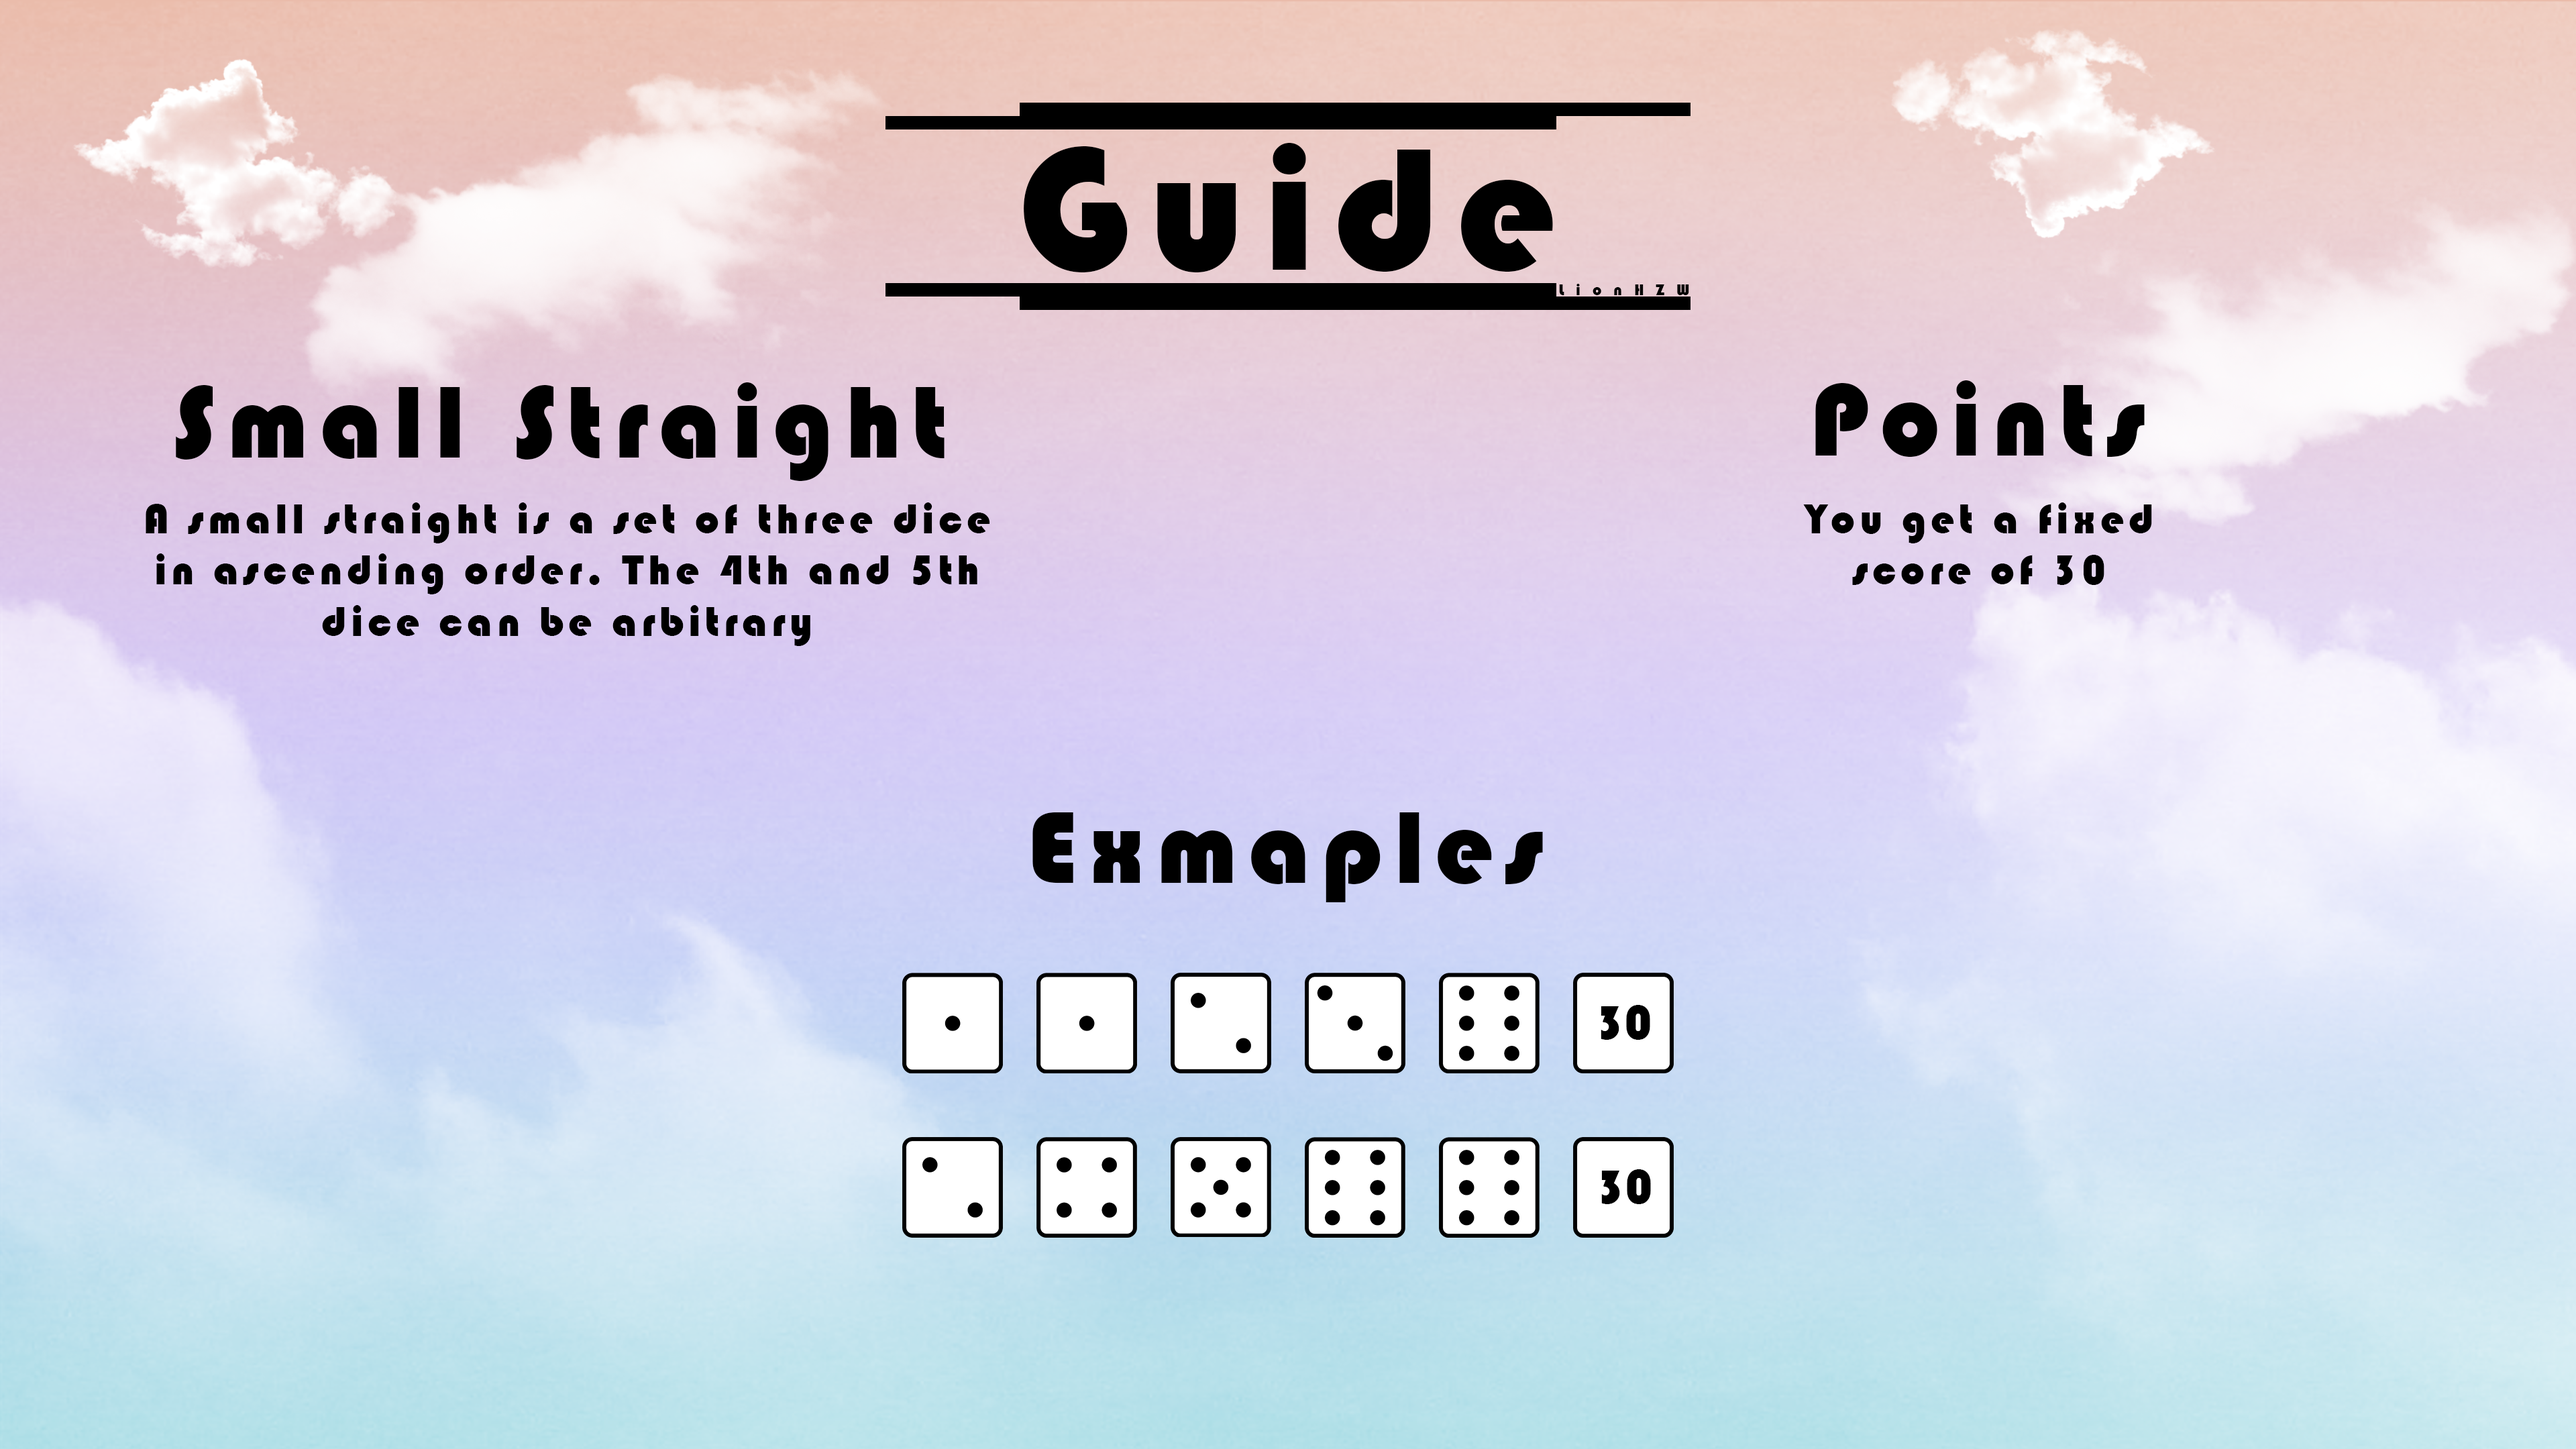
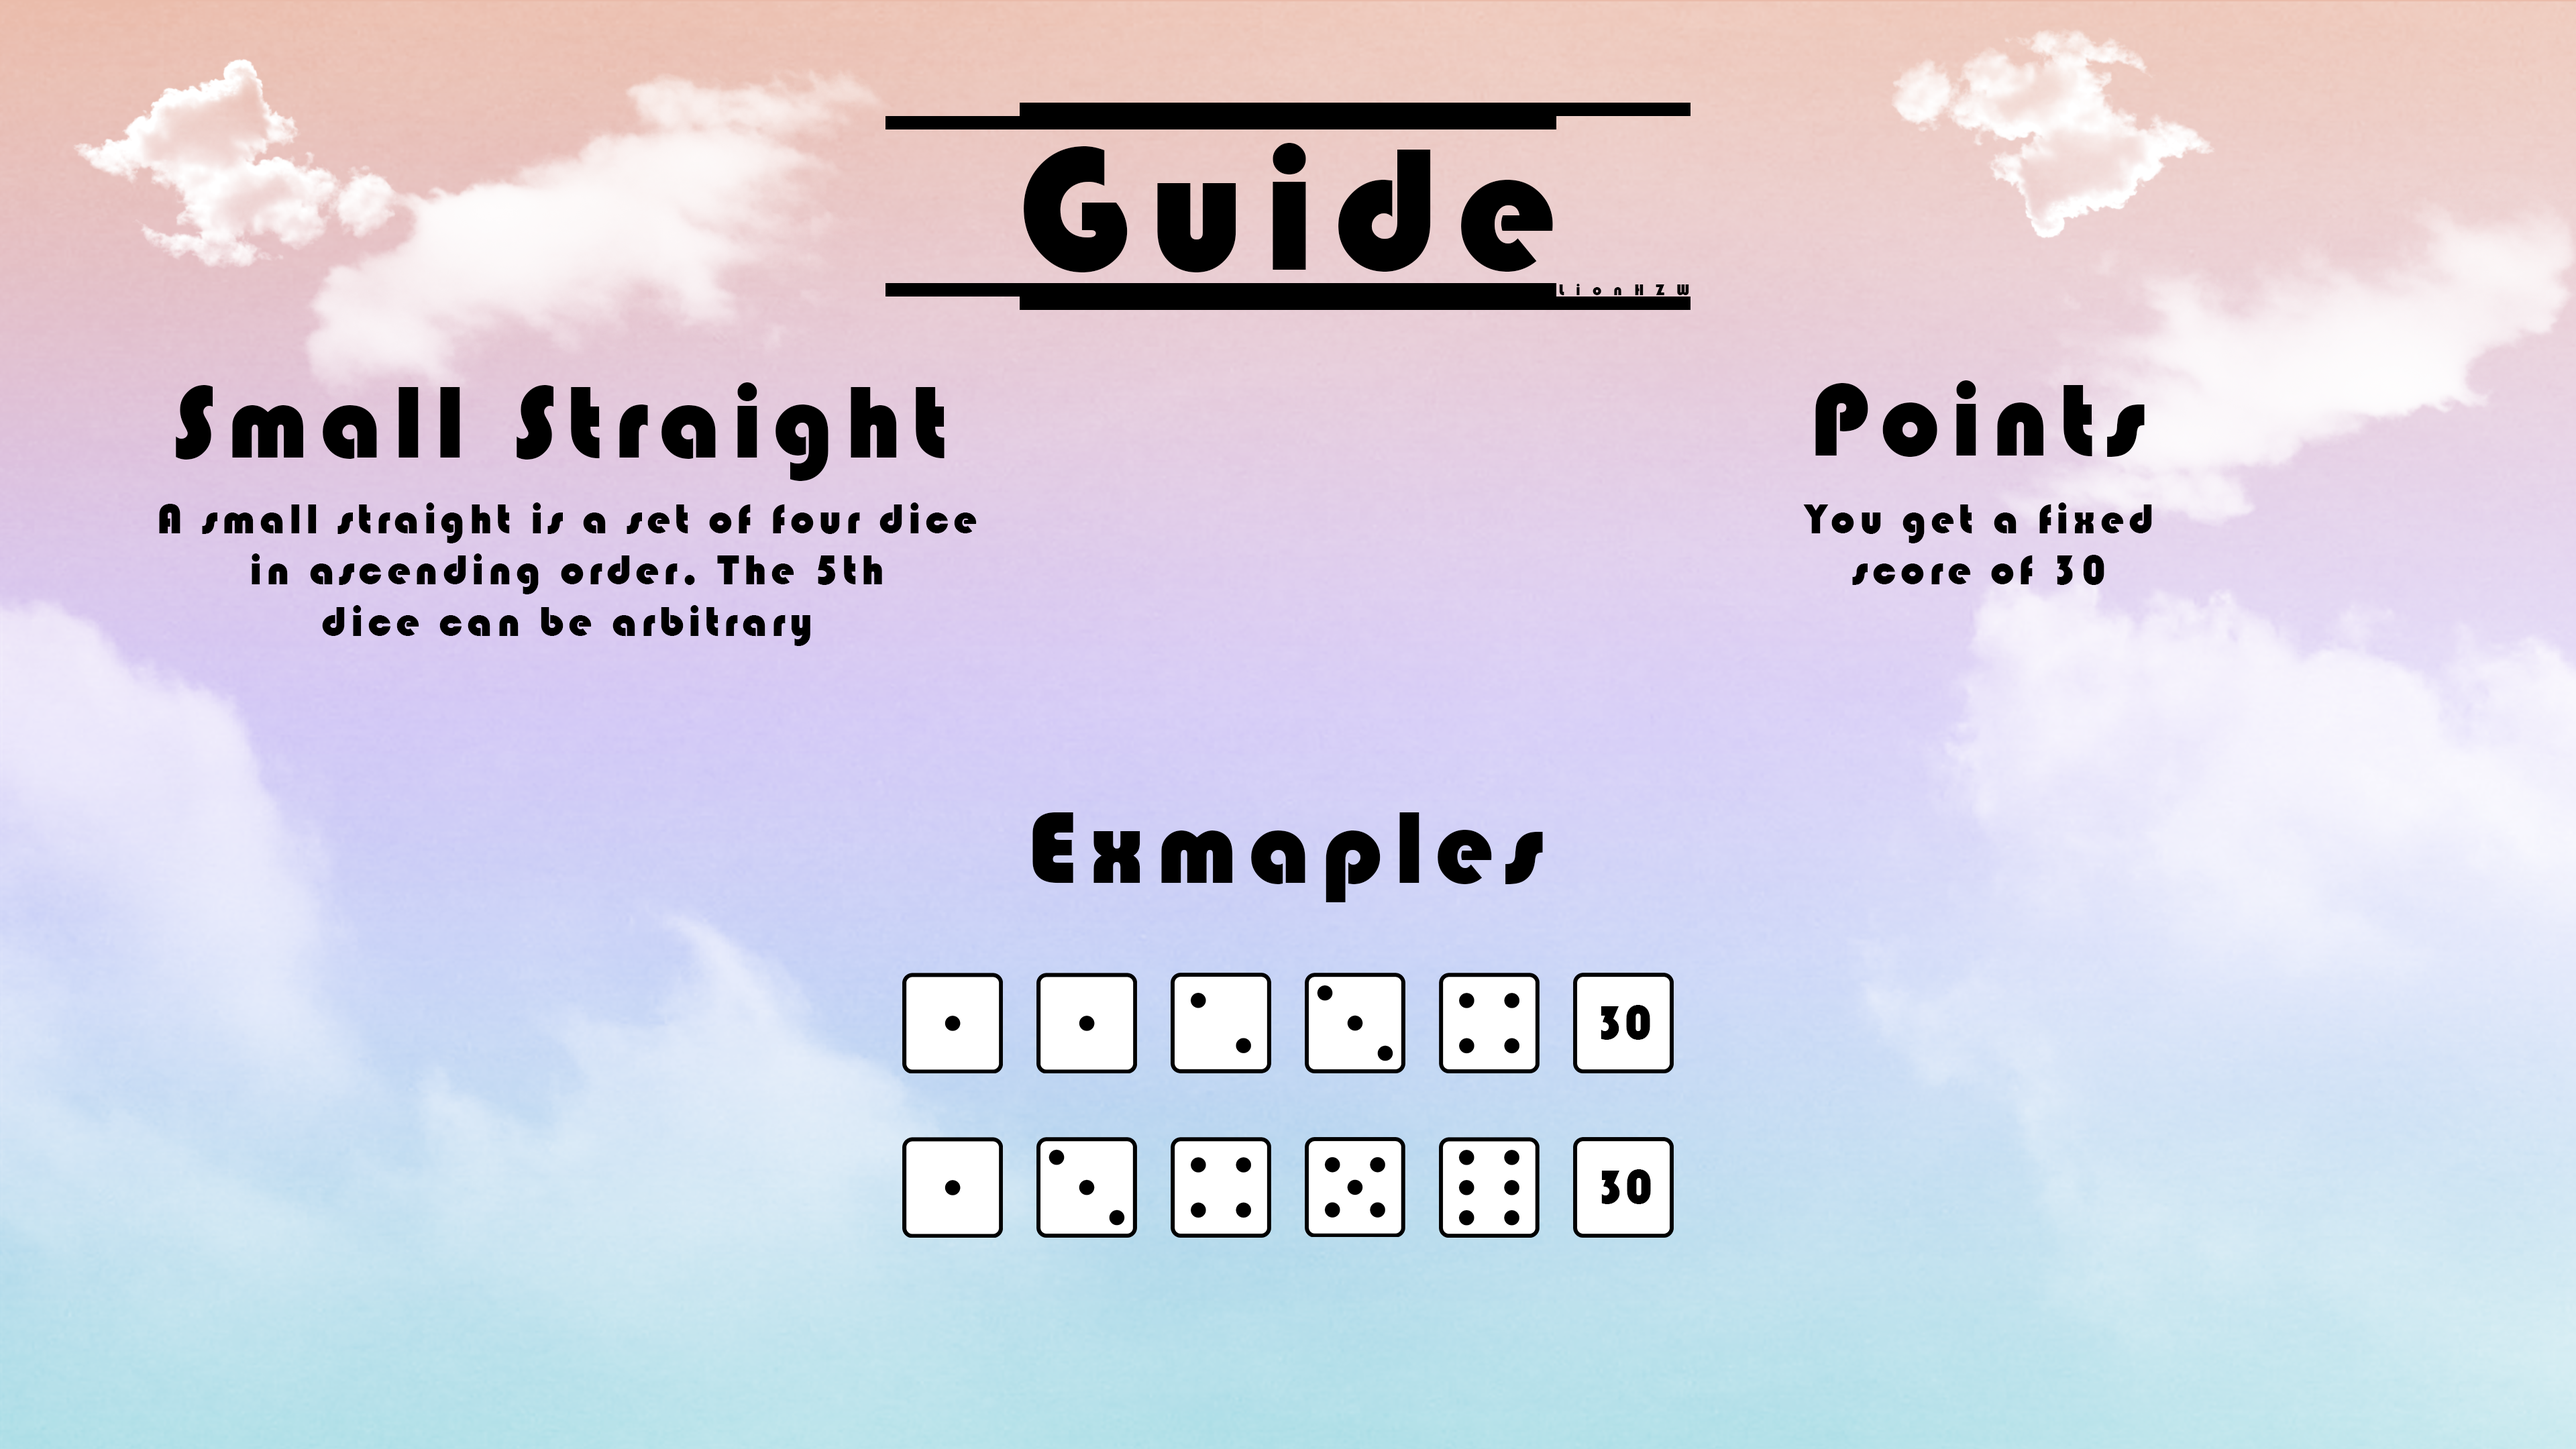
Fixed the small straight. (From 3 ascending number to 4)

diff --git a/src/sample/Check.java b/src/sample/Check.java
@@ -348,17 +348,17 @@ public class Check {
     public int checkp10(int[] a) {
         if (specPoints || numberp10 != 0) return -1;
         int[] newA = removeDuplicates(a);
-        if (newA.length < 3) {
+        if (newA.length < 4) {
             return -1;
         }
         int startNumber;
-        for (int i = 0; i < 3; i++) {
+        for (int i = 0; i < 2; i++) {
             startNumber = newA[i];
-            if (newA[i + 1] == startNumber + 1 && newA[i + 2] == startNumber + 2) {
+            if (newA[i + 1] == startNumber + 1 && newA[i + 2] == startNumber + 2 && newA[i + 3] == startNumber + 3) {
                 if (isCheckingForPossibilities) return 30;
-                numberp10 = 30;
-                checkTotal();
-                return numberp10;
+            numberp10 = 30;
+            checkTotal();
+            return numberp10;
             }
         }
         return -1;
